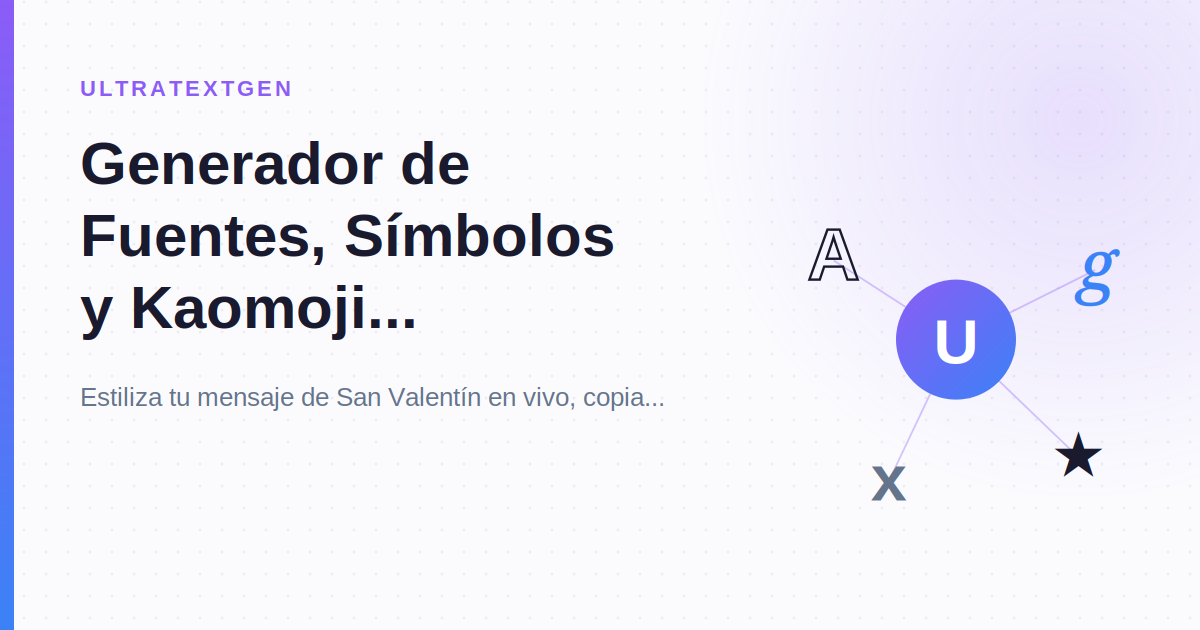
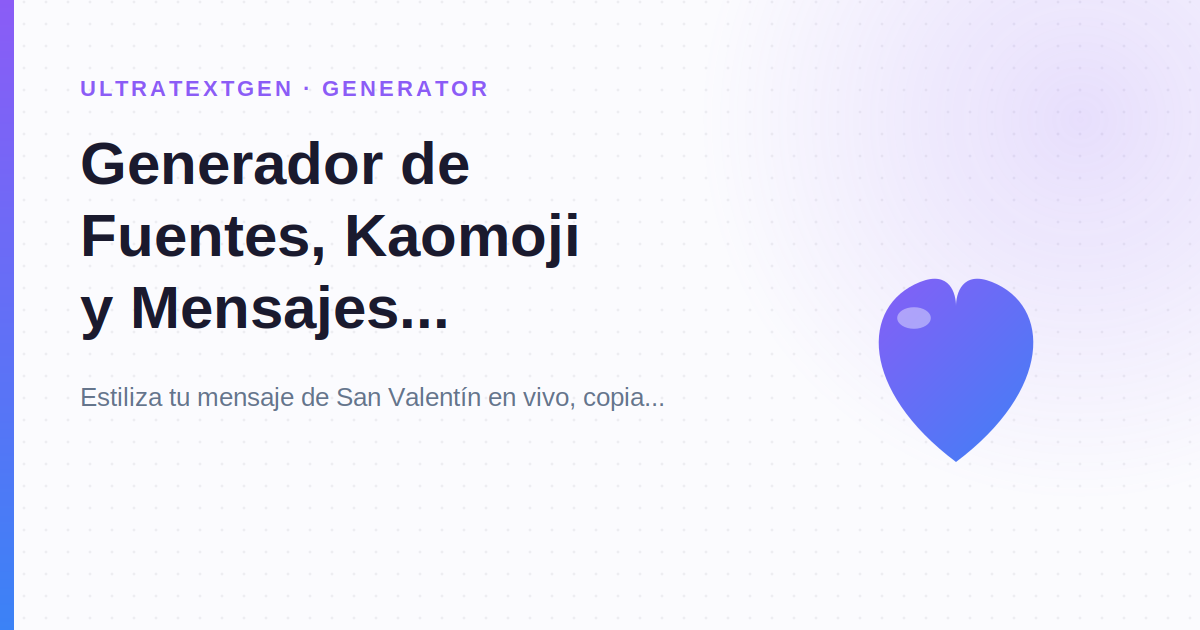
feat(library): add Valentine's Day symbols section, de-target the events page
Executes OPP-0208 ("valentines symbols", 390/mo US) as a section on
library/heart-symbols rather than a new URL, and — the part the backlog row
did not specify — applies Hub-vs-Spoke Rule 3 to the page that was already
claiming the query.

Why the de-confliction was necessary, not optional: events/valentines-day
carried "Symbols" in its <title> and an H2 "Valentine's Day Emoji &
Symbols". A GSC query×page pull (Jul 4-29 2026) shows symbol-shaped holiday
queries land on events/ pages at ~position 40 with ZERO clicks across the
entire events/ pillar in 26 days. Those pages occupy the symbols query
without winning it, which is the exact starved-spoke signature CLAUDE.md's
Discord case study describes. Shipping the heart-symbols section without
de-targeting would have added a second claimant rather than moved the query
to the page that can serve it.

- library/heart-symbols: new "Valentine's Day Symbols" H2 (10 tiles —
  Dingbats U+2763-U+2764 plus the U+1F490-U+1F49F love-token range) with a
  one-line pointer to the generator for message-styling intent. Deliberately
  does NOT target "valentine's day fonts", "valentine text generator", or
  the wishes/messages queries — those stay with events/ and answers/.
- events/valentines-day + es/events/san-valentin: "Symbols" dropped from the
  title, the collection H2 rescoped to the generator job ("Hearts & Roses to
  Add to Your Message"), reverse pointer added. The emoji grid itself is
[…]

diff --git a/es/events/san-valentin/index.html b/es/events/san-valentin/index.html
@@ -50,13 +50,13 @@ window.__h82AlnkH6D91__("WyJwdWItODI0MjMyNDE2NDQxMzk0NSIsW251bGwsbnVsbCxudWxsLCJ
   <meta charset="UTF-8">
   <meta name="viewport" content="width=device-width, initial-scale=1.0">
 
-  <title>Generador de Fuentes, Símbolos y Kaomoji para San Valentín | UltraTextGen</title>
+  <title>Generador de Fuentes, Kaomoji y Mensajes para San Valentín | UltraTextGen</title>
   <meta name="description" content="Estiliza tu mensaje de San Valentín en vivo, copia corazones, rosas y besos en emoji, kaomoji, arte ASCII original y frases listas como Feliz San Valentín — toca para transformarlas al instante.">
   <link rel="canonical" href="https://ultratextgen.com/es/events/san-valentin/">
   <link rel="alternate" hreflang="en" href="https://ultratextgen.com/events/valentines-day/">
   <link rel="alternate" hreflang="es" href="https://ultratextgen.com/es/events/san-valentin/">
   <link rel="alternate" hreflang="x-default" href="https://ultratextgen.com/events/valentines-day/">
-  <meta property="og:title" content="Generador de Fuentes, Símbolos y Kaomoji para San Valentín | UltraTextGen">
+  <meta property="og:title" content="Generador de Fuentes, Kaomoji y Mensajes para San Valentín | UltraTextGen">
   <meta property="og:description" content="Estiliza tu mensaje de San Valentín en vivo, copia corazones, rosas y besos en emoji, kaomoji, arte ASCII original y frases listas como Feliz San Valentín — toca para transformarlas al instante.">
   <meta property="og:url" content="https://ultratextgen.com/es/events/san-valentin/">
   <meta property="og:type" content="website">
@@ -64,9 +64,9 @@ window.__h82AlnkH6D91__("WyJwdWItODI0MjMyNDE2NDQxMzk0NSIsW251bGwsbnVsbCxudWxsLCJ
   <meta property="og:image:width" content="1200">
   <meta property="og:image:height" content="630">
   <meta property="og:image:type" content="image/png">
-  <meta property="og:image:alt" content="Generador de Fuentes, Símbolos y Kaomoji para San Valentín | UltraTextGen">
+  <meta property="og:image:alt" content="Generador de Fuentes, Kaomoji y Mensajes para San Valentín | UltraTextGen">
   <meta name="twitter:card" content="summary_large_image">
-  <meta name="twitter:title" content="Generador de Fuentes, Símbolos y Kaomoji para San Valentín | UltraTextGen">
+  <meta name="twitter:title" content="Generador de Fuentes, Kaomoji y Mensajes para San Valentín | UltraTextGen">
   <meta name="twitter:description" content="Estiliza tu mensaje de San Valentín en vivo, copia corazones, rosas y besos en emoji, kaomoji, arte ASCII original y frases listas como Feliz San Valentín — toca para transformarlas al instante.">
   <meta name="twitter:image" content="https://ultratextgen.com/assets/og/es-events-san-valentin.png">
 
@@ -238,9 +238,10 @@ window.__h82AlnkH6D91__("WyJwdWItODI0MjMyNDE2NDQxMzk0NSIsW251bGwsbnVsbCxudWxsLCJ
 
   <section class="editorial-section" id="eventEmojiSection">
     <span class="article-section-label">Emojis y Símbolos</span>
-    <h2>Emojis y Símbolos de San Valentín</h2>
+    <h2>Corazones y Rosas para tu Mensaje</h2>
     <p class="editorial-intro">Toca cualquier carácter para copiarlo, o copia todo un conjunto en el formato que prefieras.</p>
     <div id="eventEmojiGrids"></div>
+    <p class="u-secondary-tight u-mt-15">¿Buscas la colección completa? Mira los <a href="/es/simbolos-de-corazon/">símbolos de corazón</a>: corazones Unicode, emojis de colores y adornos para copiar y pegar.</p>
   </section>
 
   <div class="section-divider"></div>

diff --git a/events/valentines-day/index.html b/events/valentines-day/index.html
@@ -50,13 +50,13 @@ window.__h82AlnkH6D91__("WyJwdWItODI0MjMyNDE2NDQxMzk0NSIsW251bGwsbnVsbCxudWxsLCJ
   <meta charset="UTF-8">
   <meta name="viewport" content="width=device-width, initial-scale=1.0">
 
-  <title>Valentine's Day Fonts, Symbols &amp; Kaomoji Generator | UltraTextGen</title>
+  <title>Valentine's Day Fonts, Kaomoji &amp; Message Generator | UltraTextGen</title>
   <meta name="description" content="Style a Valentine&#x27;s Day message live, copy hearts, roses, and kiss-mark emoji, kaomoji, curated ASCII art, and ready-made phrases like Be My Valentine — tap to style instantly.">
   <link rel="canonical" href="https://ultratextgen.com/events/valentines-day/">
   <link rel="alternate" hreflang="en" href="https://ultratextgen.com/events/valentines-day/">
   <link rel="alternate" hreflang="es" href="https://ultratextgen.com/es/events/san-valentin/">
   <link rel="alternate" hreflang="x-default" href="https://ultratextgen.com/events/valentines-day/">
-  <meta property="og:title" content="Valentine&#x27;s Day Fonts, Symbols &amp; Kaomoji Generator | UltraTextGen">
+  <meta property="og:title" content="Valentine&#x27;s Day Fonts, Kaomoji &amp; Message Generator | UltraTextGen">
   <meta property="og:description" content="Style a Valentine&#x27;s Day message live, copy hearts, roses, and kiss-mark emoji, kaomoji, curated ASCII art, and ready-made phrases like Be My Valentine — tap to style instantly.">
   <meta property="og:url" content="https://ultratextgen.com/events/valentines-day/">
   <meta property="og:type" content="website">
@@ -64,9 +64,9 @@ window.__h82AlnkH6D91__("WyJwdWItODI0MjMyNDE2NDQxMzk0NSIsW251bGwsbnVsbCxudWxsLCJ
   <meta property="og:image:width" content="1200">
   <meta property="og:image:height" content="630">
   <meta property="og:image:type" content="image/png">
-  <meta property="og:image:alt" content="Valentine&#x27;s Day Fonts, Symbols &amp; Kaomoji Generator | UltraTextGen">
+  <meta property="og:image:alt" content="Valentine&#x27;s Day Fonts, Kaomoji &amp; Message Generator | UltraTextGen">
   <meta name="twitter:card" content="summary_large_image">
-  <meta name="twitter:title" content="Valentine&#x27;s Day Fonts, Symbols &amp; Kaomoji Generator | UltraTextGen">
+  <meta name="twitter:title" content="Valentine&#x27;s Day Fonts, Kaomoji &amp; Message Generator | UltraTextGen">
   <meta name="twitter:description" content="Style a Valentine&#x27;s Day message live, copy hearts, roses, and kiss-mark emoji, kaomoji, curated ASCII art, and ready-made phrases like Be My Valentine — tap to style instantly.">
   <meta name="twitter:image" content="https://ultratextgen.com/assets/og/events-valentines-day.png">
 
@@ -246,9 +246,10 @@ window.__h82AlnkH6D91__("WyJwdWItODI0MjMyNDE2NDQxMzk0NSIsW251bGwsbnVsbCxudWxsLCJ
 
   <section class="editorial-section" id="eventEmojiSection">
     <span class="article-section-label">Emoji &amp; Symbols</span>
-    <h2>Valentine's Day Emoji &amp; Symbols</h2>
+    <h2>Hearts &amp; Roses to Add to Your Message</h2>
     <p class="editorial-intro">Tap any character to copy it, or copy a whole set at once in your preferred format.</p>
     <div id="eventEmojiGrids"></div>
+    <p class="u-secondary-tight u-mt-15">For the full heart symbol collection — Unicode hearts, colored heart emoji, and heart decorations — see <a href="/library/heart-symbols/">Heart Symbols</a>.</p>
   </section>
 
   <div class="section-divider"></div>

diff --git a/library/heart-symbols/index.html b/library/heart-symbols/index.html
@@ -414,6 +414,57 @@ window.__h82AlnkH6D91__("WyJwdWItODI0MjMyNDE2NDQxMzk0NSIsW251bGwsbnVsbCxudWxsLCJ
   <div id="heartCollectionsContainer"></div>
 </section>
 
+<div class="section-divider"></div>
+
+<!-- VALENTINE'S DAY SYMBOLS -->
+<section class="mood-explainers" id="valentines-day-symbols">
+  <span class="article-section-label">Valentine's</span>
+  <h2>Valentine's Day Symbols</h2>
+  <p>The heart glyphs and love-token characters that get used most around 14 February — decorated hearts, roses, love letters, and the Dingbats heart characters that predate emoji. To style a Valentine's <em>message</em> in cursive or another font, use the <a href="/events/valentines-day/">Valentine's Day generator</a>.</p>
+  <div class="flag-rows">
+    <div class="flag-row">
+      <button class="flag-emoji symbol-tile" data-symbol="❣" aria-label="Copy Heavy Heart Exclamation">❣</button>
+      <span class="flag-label">Heavy Heart Exclamation</span>
+    </div>
+    <div class="flag-row">
+      <button class="flag-emoji symbol-tile" data-symbol="❤" aria-label="Copy Heavy Black Heart">❤</button>
+      <span class="flag-label">Heavy Black Heart</span>
+    </div>
+    <div class="flag-row">
+      <button class="flag-emoji symbol-tile" data-symbol="💐" aria-label="Copy Bouquet">💐</button>
+      <span class="flag-label">Bouquet</span>
+    </div>
+    <div class="flag-row">
+      <button class="flag-emoji symbol-tile" data-symbol="🌹" aria-label="Copy Rose">🌹</button>
+      <span class="flag-label">Rose</span>
+    </div>
+    <div class="flag-row">
+      <button class="flag-emoji symbol-tile" data-symbol="💘" aria-label="Copy Heart with Arrow">💘</button>
+      <span class="flag-label">Heart with Arrow</span>
+    </div>
+    <div class="flag-row">
+      <button class="flag-emoji symbol-tile" data-symbol="💝" aria-label="Copy Heart with Ribbon">💝</button>
+      <span class="flag-label">Heart with Ribbon</span>
+    </div>
+    <div class="flag-row">
+      <button class="flag-emoji symbol-tile" data-symbol="💌" aria-label="Copy Love Letter">💌</button>
+      <span class="flag-label">Love Letter</span>
+    </div>
+    <div class="flag-row">
+      <button class="flag-emoji symbol-tile" data-symbol="💞" aria-label="Copy Revolving Hearts">💞</button>
+      <span class="flag-label">Revolving Hearts</span>
+    </div>
+    <div class="flag-row">
+      <button class="flag-emoji symbol-tile" data-symbol="💕" aria-label="Copy Two Hearts">💕</button>
+      <span class="flag-label">Two Hearts</span>
+    </div>
+    <div class="flag-row">
+      <button class="flag-emoji symbol-tile" data-symbol="🍫" aria-label="Copy Chocolate Bar">🍫</button>
+      <span class="flag-label">Chocolate Bar</span>
+    </div>
+  </div>
+</section>
+
 
 <!-- CTA -->
 <div class="cta-card">

diff --git a/scripts/generate_event_page_from_spec.py b/scripts/generate_event_page_from_spec.py
@@ -845,6 +845,28 @@ def render_page(spec):
             + spec["phrase_cta"].replace("{href}", href)
             + "</p>"
         )
+    # Emoji/symbol section overrides. Both exist for Hub-vs-Spoke Rule 3
+    # de-confliction (CLAUDE.md): when a /library/ collection page owns the
+    # "<event> symbols" query, this section must stop contesting it — its H2
+    # gets re-scoped to the generator job, and it points at the collection
+    # instead. The default heading stays "{event_name} Emoji & Symbols" for
+    # every event whose symbols query no /library/ page owns.
+    emoji_heading = spec.get("emoji_section_heading") or tr(
+        language, "section_emoji_heading", event_name=esc(event_name),
+    )
+    # Carries its own anchor rather than a {href} placeholder (unlike
+    # phrase_cta, whose target is derived from companion_answer_slug): the
+    # target is a hand-picked page and must be the LOCALE-NATIVE one per
+    # CLAUDE.md's locale-native internal linking rule, so the choice belongs
+    # in each language's spec, visible to review.
+    emoji_cta_html = ""
+    if spec.get("emoji_section_cta"):
+        emoji_cta_html = (
+            '\n    <p class="u-secondary-tight u-mt-15">'
+            + spec["emoji_section_cta"]
+            + "</p>"
+        )
+
     hreflang_html = render_hreflang(spec.get("hreflang"))
 
     aka_html = ""
@@ -1042,9 +1064,9 @@ def render_page(spec):
 
   <section class="editorial-section" id="eventEmojiSection">
     <span class="article-section-label">{tr(language, "section_emoji_label")}</span>
-    <h2>{tr(language, "section_emoji_heading", event_name=esc(event_name))}</h2>
+    <h2>{emoji_heading}</h2>
     <p class="editorial-intro">{tr(language, "section_emoji_intro")}</p>
-    <div id="eventEmojiGrids"></div>
+    <div id="eventEmojiGrids"></div>{emoji_cta_html}
   </section>
 
   <div class="section-divider"></div>
